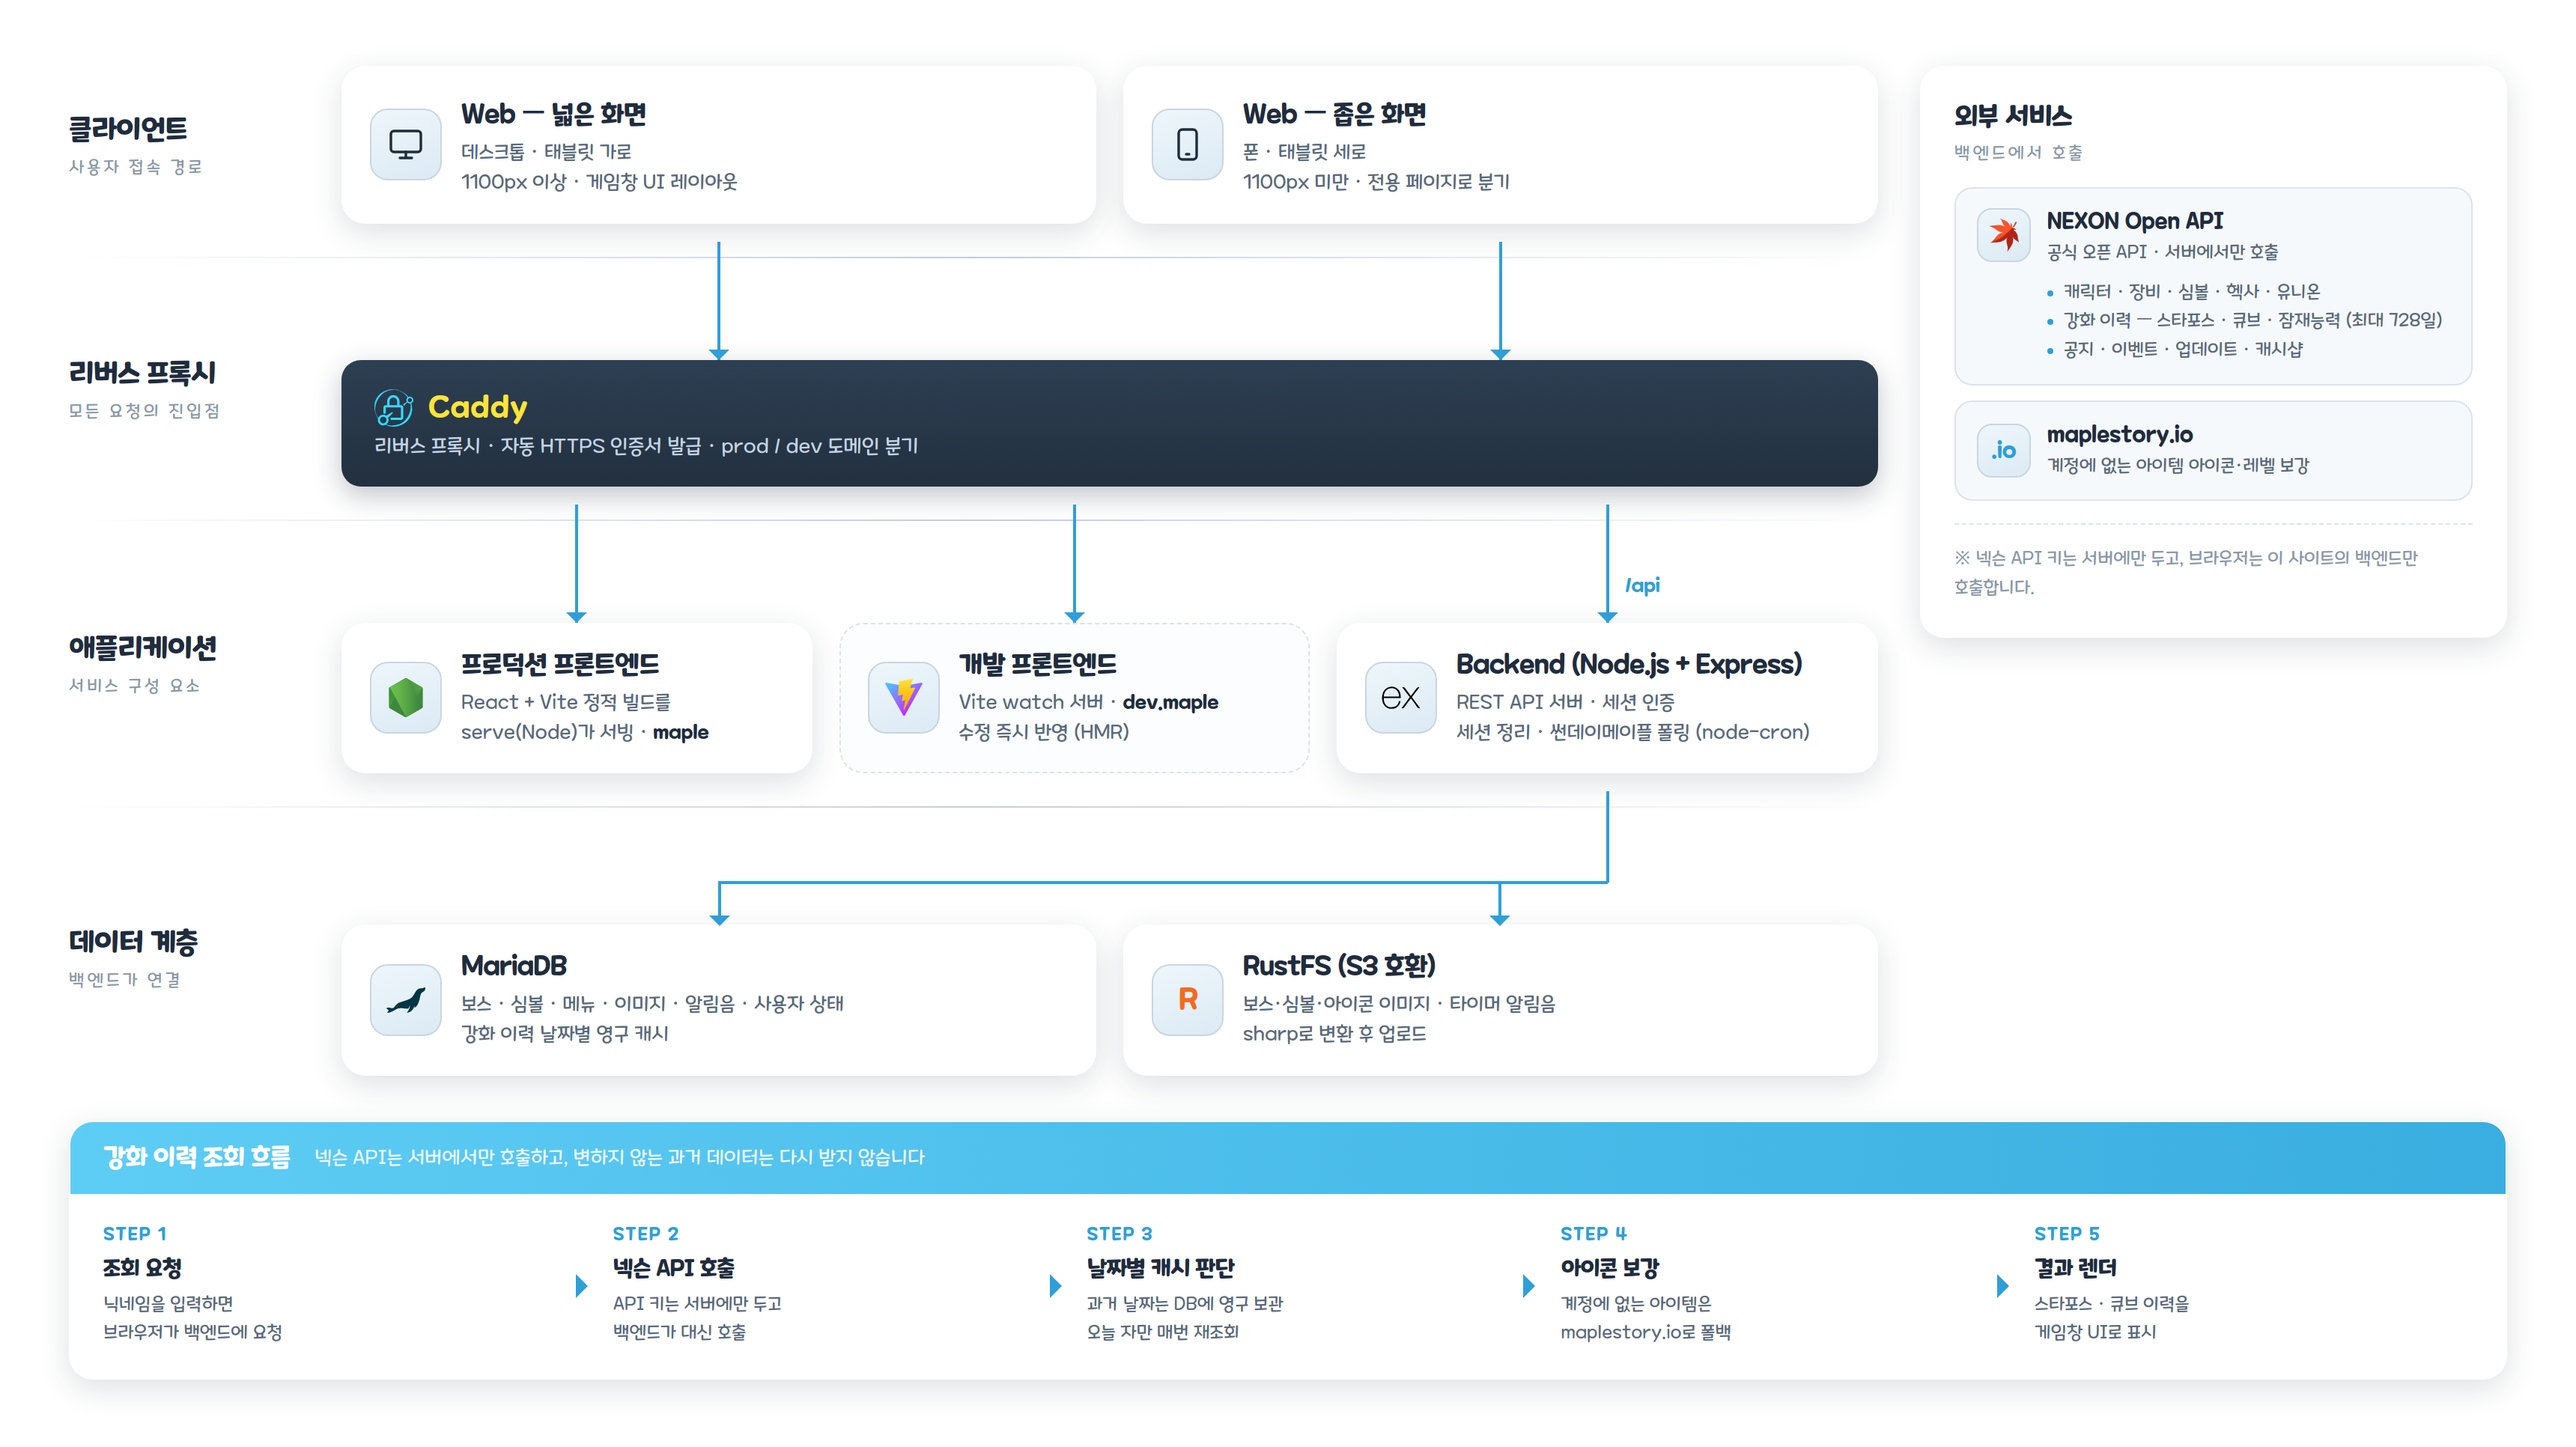
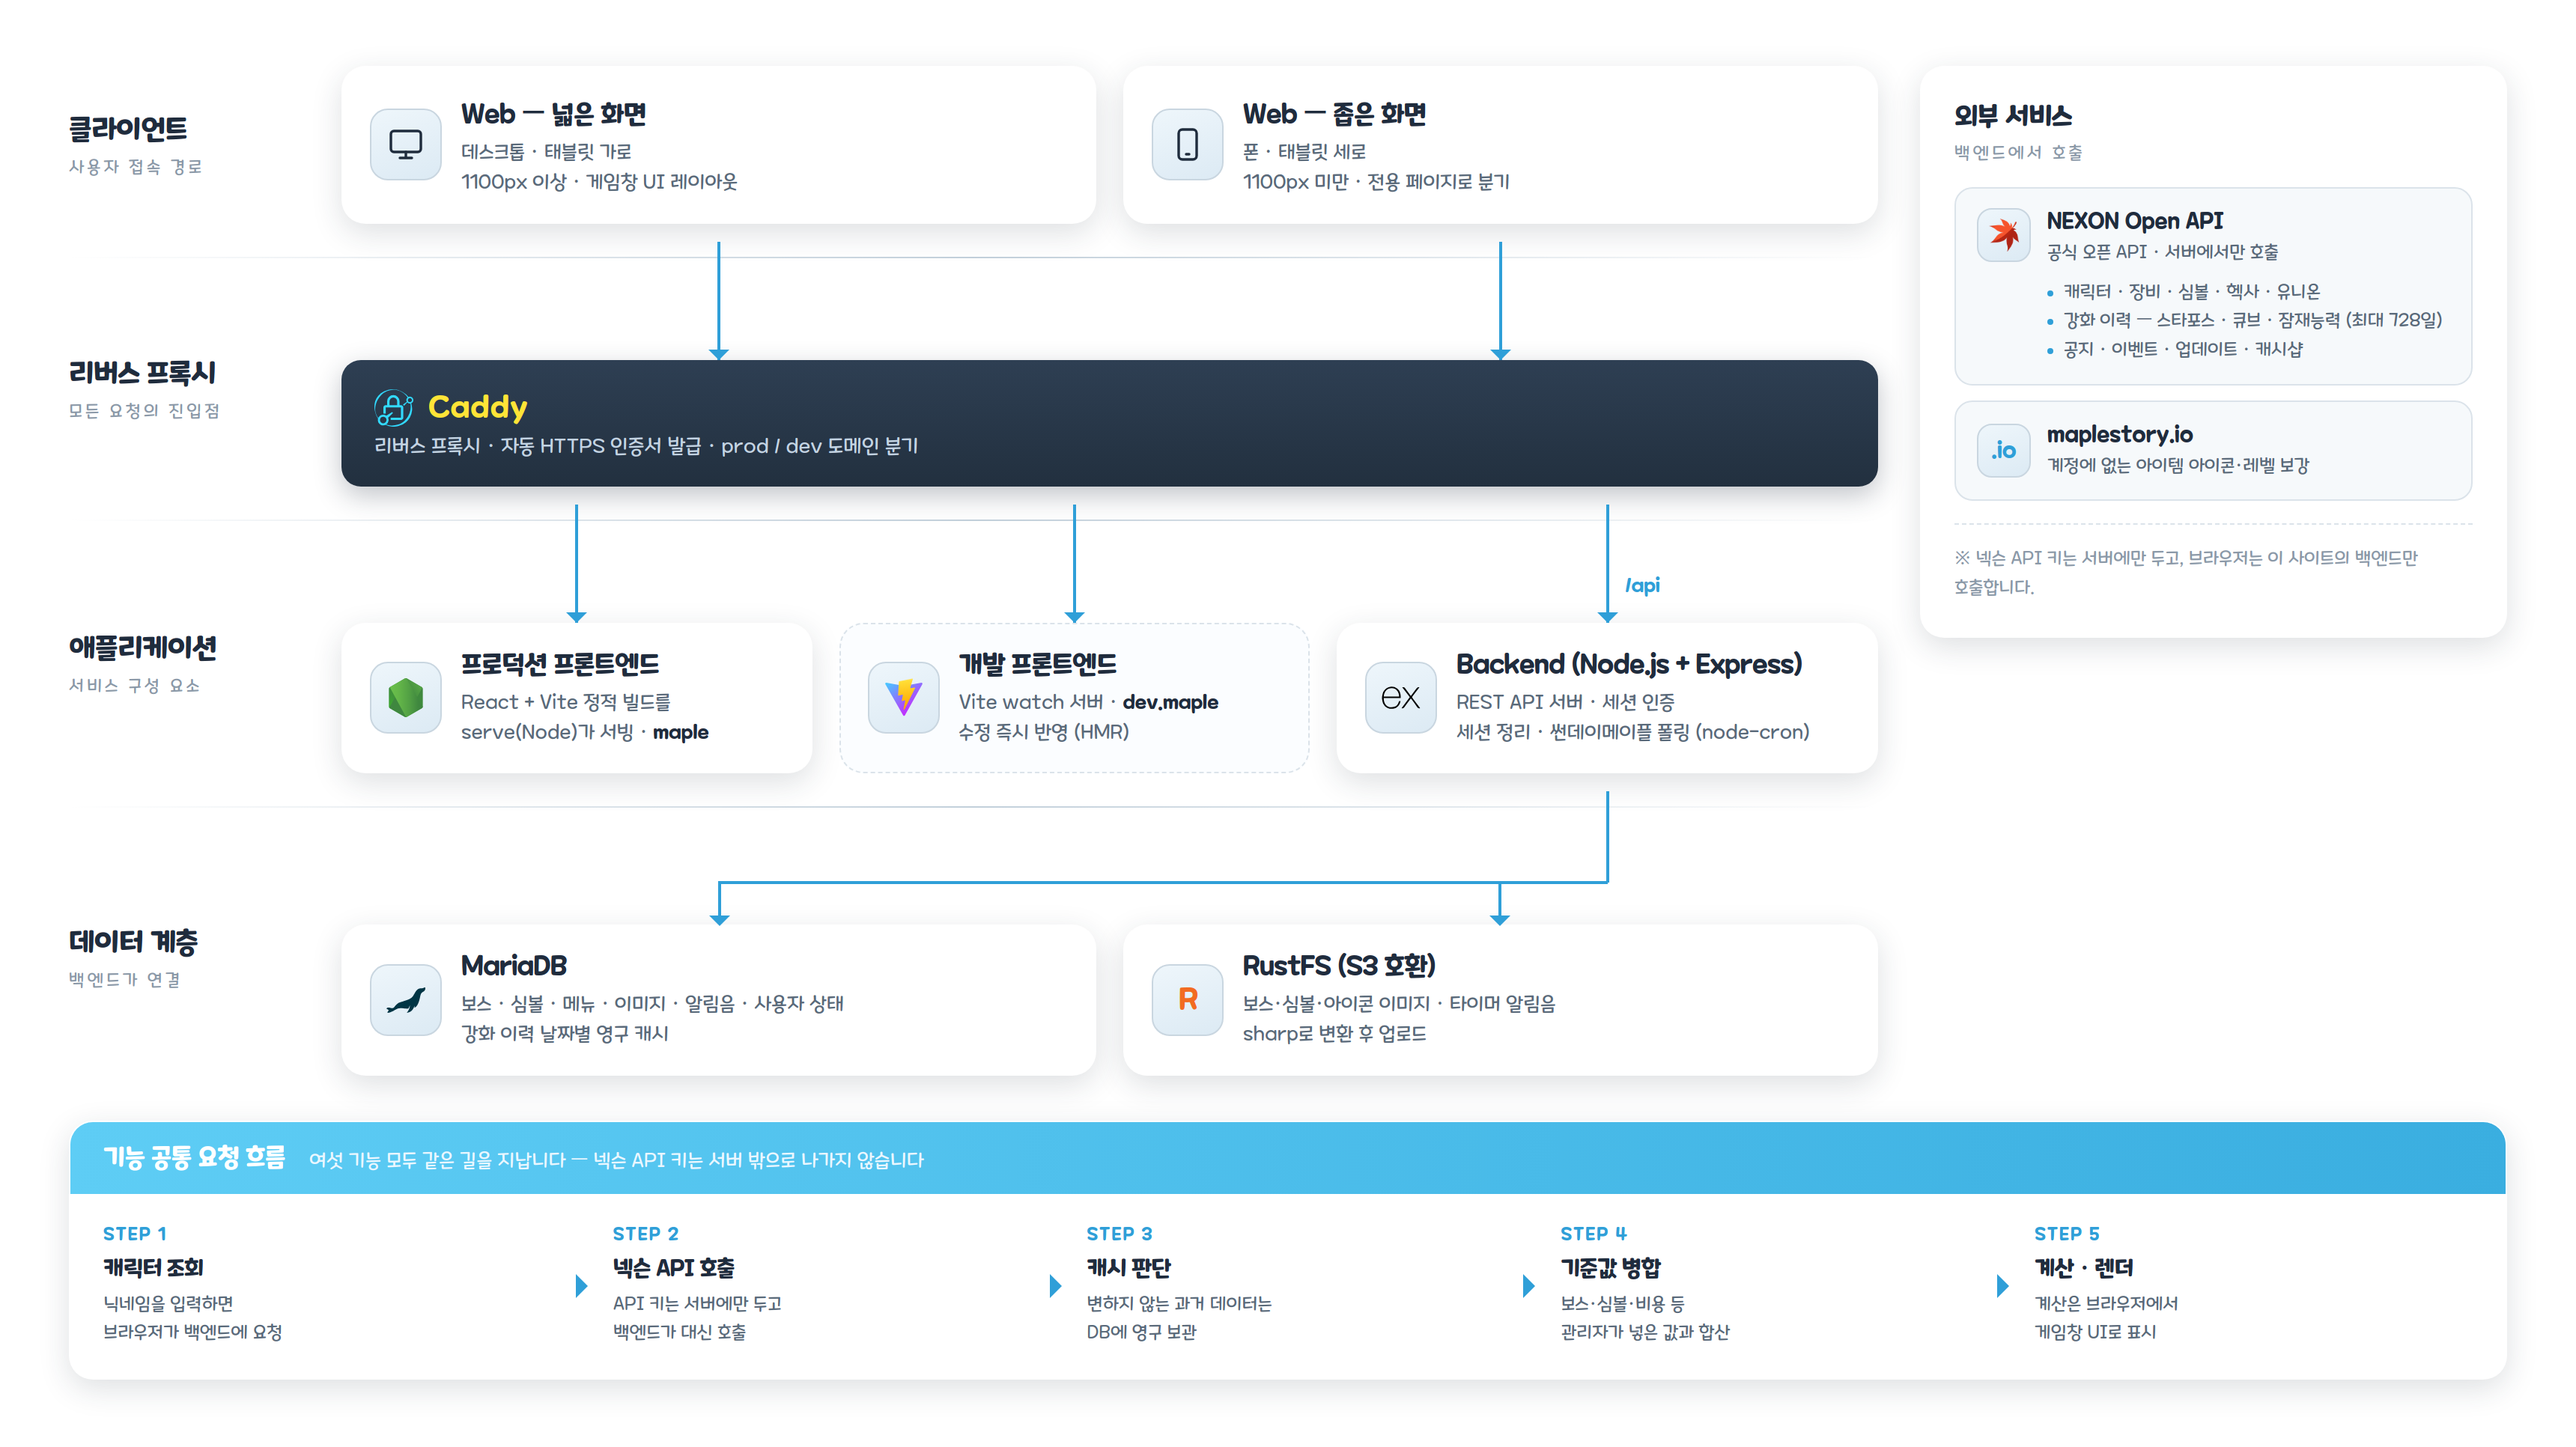
구조도 하단을 기능 공통 요청 흐름으로 교체
여섯 기능 중 강화 이력 하나만 상세히 들어가 있어 왜 그것만인지 설명되지 않았다.
모든 기능이 같은 길을 지난다는 점(조회 → 넥슨 API → 캐시 → 기준값 병합 → 계산)을
보여주는 쪽이 구조도에 맞다. 강화 이력의 날짜별 캐시 설명은 README에 그대로 남아 있다.

Claude-Session: https://claude.ai/code/session_01WCWL45FtCrvE2HbVjWmjRD

diff --git a/docs/images/architecture.html b/docs/images/architecture.html
@@ -235,15 +235,15 @@ body{
 
 <div class="flow">
   <div class="flow-h">
-    <span class="ft">강화 이력 조회 흐름</span>
-    <span class="fs2">넥슨 API는 서버에서만 호출하고, 변하지 않는 과거 데이터는 다시 받지 않습니다</span>
+    <span class="ft">기능 공통 요청 흐름</span>
+    <span class="fs2">여섯 기능 모두 같은 길을 지납니다 — 넥슨 API 키는 서버 밖으로 나가지 않습니다</span>
   </div>
   <div class="steps">
-        <div class="st"><div class="sn">STEP 1</div><div class="sh">조회 요청</div><div class="sd">닉네임을 입력하면<br>브라우저가 백엔드에 요청</div></div>
+        <div class="st"><div class="sn">STEP 1</div><div class="sh">캐릭터 조회</div><div class="sd">닉네임을 입력하면<br>브라우저가 백엔드에 요청</div></div>
         <div class="st"><div class="sn">STEP 2</div><div class="sh">넥슨 API 호출</div><div class="sd">API 키는 서버에만 두고<br>백엔드가 대신 호출</div></div>
-        <div class="st"><div class="sn">STEP 3</div><div class="sh">날짜별 캐시 판단</div><div class="sd">과거 날짜는 DB에 영구 보관<br>오늘 자만 매번 재조회</div></div>
-        <div class="st"><div class="sn">STEP 4</div><div class="sh">아이콘 보강</div><div class="sd">계정에 없는 아이템은<br>maplestory.io로 폴백</div></div>
-        <div class="st"><div class="sn">STEP 5</div><div class="sh">결과 렌더</div><div class="sd">스타포스 · 큐브 이력을<br>게임창 UI로 표시</div></div>
+        <div class="st"><div class="sn">STEP 3</div><div class="sh">캐시 판단</div><div class="sd">변하지 않는 과거 데이터는<br>DB에 영구 보관</div></div>
+        <div class="st"><div class="sn">STEP 4</div><div class="sh">기준값 병합</div><div class="sd">보스·심볼·비용 등<br>관리자가 넣은 값과 합산</div></div>
+        <div class="st"><div class="sn">STEP 5</div><div class="sh">계산 · 렌더</div><div class="sd">계산은 브라우저에서<br>게임창 UI로 표시</div></div>
   </div>
 </div>
 
